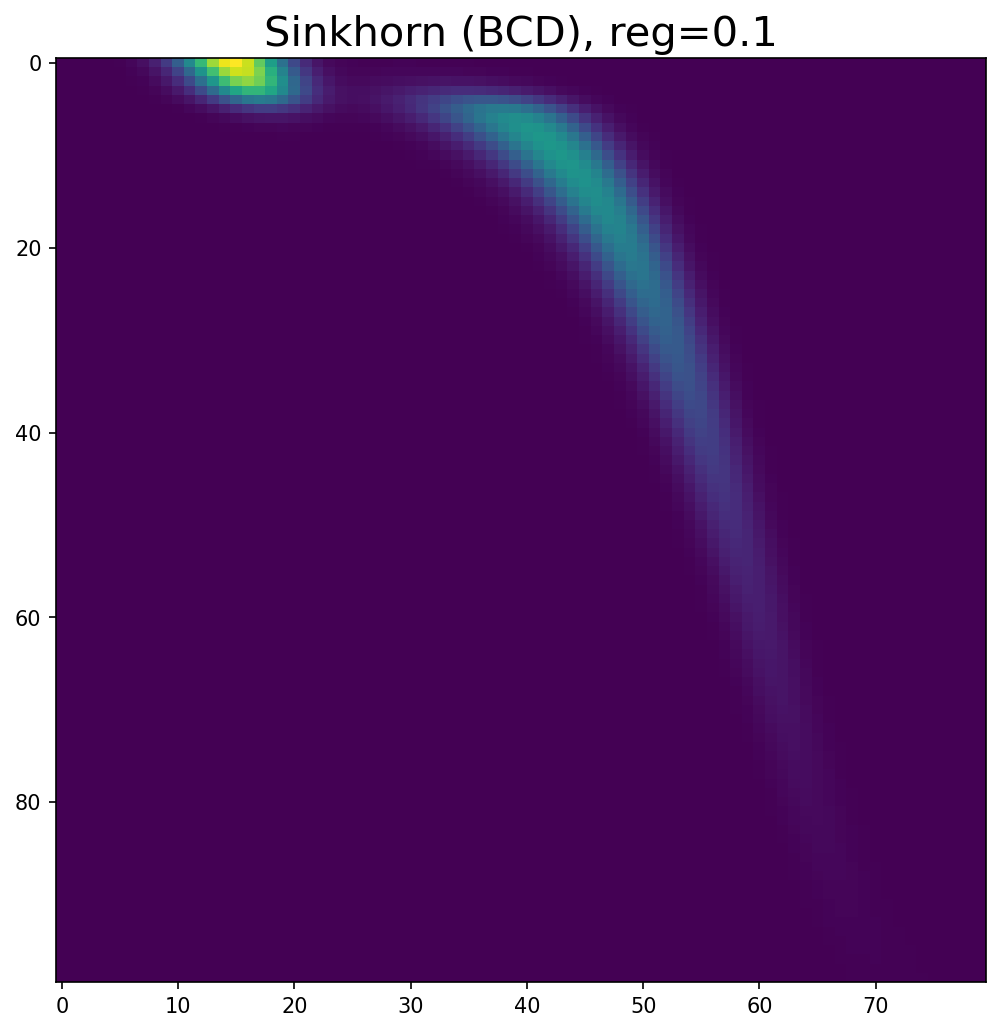
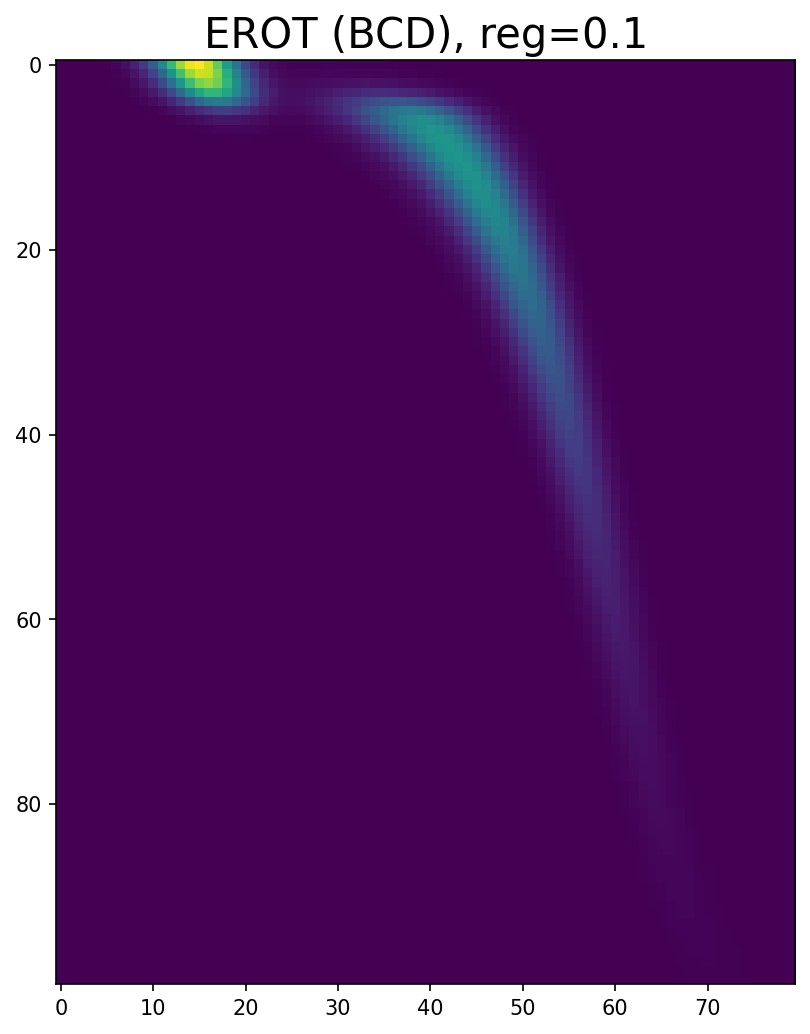
refine examples

diff --git a/figs/generate_readme_images.py b/figs/generate_readme_images.py
@@ -1,0 +1,58 @@
+#!/usr/bin/env python3
+"""
+Generate README transport plan images:
+    EROT: `plan_erot_bcd_reg0_1.png`, `plan_erot_ssns_reg0_01.png`
+    QROT: `plan_qrot_pdip_reg0_1.png`, `plan_qrot_pdip_reg0_01.png`
+
+Run code:
+    python generate_readme_plans.py
+"""
+from pathlib import Path
+from typing import Optional
+
+import matplotlib
+matplotlib.use("Agg")
+
+import numpy as np
+from scipy.stats import expon, norm
+import regot
+import matplotlib.pyplot as plt
+
+def example(n: int = 100, m: int = 80):
+    x1 = np.linspace(0.0, 5.0, num=n)
+    x2 = np.linspace(0.0, 5.0, num=m)
+    distr1 = expon(scale=1.0)
+    distr2 = norm(loc=1.0, scale=0.2)
+    distr3 = norm(loc=3.0, scale=0.5)
+    a = distr1.pdf(x1)
+    a = a / np.sum(a)
+    b = 0.2 * distr2.pdf(x2) + 0.8 * distr3.pdf(x2)
+    b = b / np.sum(b)
+    M = np.square(x1.reshape(n, 1) - x2.reshape(1, m))
+    return M, a, b
+
+def vis_plan(T, title: str = "", cmap: str = "viridis", filename: Optional[str] = None):
+    fig, ax = plt.subplots(figsize=(8, 8))
+    ax.imshow(T, cmap=cmap, interpolation="nearest")
+    ax.set_title(title, fontsize=20)
+    if filename is not None:
+        fig.savefig(filename, bbox_inches="tight", dpi=150)
+    plt.close(fig)
+
+def main():
+    np.random.seed(123)
+    M, a, b = example(n=100, m=80)
+
+    res1 = regot.sinkhorn_bcd(M, a, b, reg=0.1, tol=1e-6, max_iter=1000, verbose=0)
+    res2 = regot.sinkhorn_ssns(M, a, b, reg=0.01, tol=1e-6, max_iter=1000, verbose=0)
+
+    res3 = regot.qrot_pdip(M, a, b, reg=0.1, tol=1e-8, max_iter=1000, inner_solver="cg")
+    res4 = regot.qrot_pdip(M, a, b, reg=0.01, tol=1e-8, max_iter=1000, inner_solver="fp")
+
+    vis_plan(res1.plan, title="EROT (BCD), reg=0.1", filename="plan_erot_bcd_reg0_1.png")
+    vis_plan(res2.plan, title="EROT (SSNS), reg=0.01", filename="plan_erot_ssns_reg0_01.png")
+    vis_plan(res3.plan, title="QROT (PDIP-CG), reg=0.1", filename="plan_qrot_pdip_reg0_1.png")
+    vis_plan(res4.plan, title="QROT (PDIP-FP), reg=0.01", filename="plan_qrot_pdip_reg0_01.png")
+
+if __name__ == "__main__":
+    main()

diff --git a/README.md b/README.md
@@ -58,23 +58,21 @@ The following solvers are available for the QROT problem:
 - `qrot_assn`: the adaptive semi-smooth Newton (ASSN) method applied to the dual problem of QROT ([link to paper](https://arxiv.org/pdf/1603.07870)).
 - `qrot_grssn`: the globalized and regularized semi-smooth Newton (GRSSN) method applied to the dual problem of QROT ([link to paper](https://arxiv.org/pdf/1903.01112)).
 
-Primal-dual interior-point QROT solver (unified API):
+All the solvers above return an object containing fields:
 
-- **`qrot_pdip`**: primal-dual interior-point method. Pass **`inner_solver="cg"`** for a CG-based linear solve, or **`inner_solver="fp"`** for the fixed-point / sparse-Cholesky inner path. Default is **`inner_solver="cg"`** (case-insensitive).
-  - For **`cg`**: default `tol=1e-8` for normalized primal/dual gaps and `mu`. When `cg_stop_gap_mu_only` is false (default), marginal-error stopping uses **`cg_mar_tol` (default `1e-10`)**, independent of `tol`. Pass `cg_mar_tol` in kwargs to override. Set `cg_stop_gap_mu_only=True` to require **only** gaps + `mu` (like the FP path).
-  - For **`fp`**: default `tol=1e-8`. By default, stopping uses only normalized primal/dual gaps and `mu` (`fp_stop_gap_mu_only=True`). Pass `fp_stop_gap_mu_only=False` if you also want to stop when marginal error `mar_err` falls below `tol`.
-- **`pdip_cg`** / **`pdip_fp`**: legacy aliases for `qrot_pdip` with `inner_solver="cg"` or `"fp"` respectively.
+- `niter`: number of iterations used.
+- `dual`: final dual variables.
+- `plan`: computed transport plan.
+- `obj_vals`: history of dual objective function values.
+- `mar_errs`: history of marginal errors.
+- `run_times`: cumulative runtimes of iterations in milliseconds.
 
-**Developer / profiling builds.** Prebuilt wheels use the same numerics but **do not** compile in PDIP profiling hooks. When building from source, set **`REGOT_PDIP_DEV=1`** for the install step (e.g. `REGOT_PDIP_DEV=1 pip install -e .` on Unix; on Windows, set the variable in the environment before `pip install`). That enables optional runtime knobs: e.g. **`PDIP_CG_TIMING=1`** writes a phase breakdown to `pdip_cg_timing.txt`; with **`REGOT_PDIP_DEV`**, **`PDIP_SPARSITY_KEEP`** can tune the dynamic sparsity threshold in the CG preconditioner (see `src/pdip_dev_flags.h`). Without **`REGOT_PDIP_DEV`**, those environment variables are ignored—matching release behavior and avoiding accidental I/O.
+A specialized primal-dual interior-point solver is also available for the QROT problem:
 
-They return an object with fields:
-
-- `niter`: number of outer iterations.
-- `converged`: whether the stopping criterion is met.
-- `plan`: transport plan.
-- `obj_vals`: primal objective history.
-- `mar_errs`: marginal error history, defined as `max(||T1-a||_2, ||T^T1-b||_2)`.
-- `run_times`: cumulative runtime history in milliseconds.
+- `qrot_pdip`: the primal-dual interior-point method. Pass `inner_solver="cg"` for a CG-based inner solver, or `inner_solver="fp"` for the fixed-point method inner solver. Default is `inner_solver="cg"`.
+- `pdip_cg` / `pdip_fp`: aliases for `qrot_pdip` with `inner_solver="cg"` and `"fp"`, respectively.
+- For `cg`: default `tol=1e-8` for normalized primal/dual gaps and `mu`. When `cg_stop_gap_mu_only` is false (default), marginal-error stopping uses `cg_mar_tol` (default `1e-10`), independent of `tol`. Pass `cg_mar_tol` in kwargs to override. Set `cg_stop_gap_mu_only=True` to require only gaps + `mu` (like the FP solver).
+- For `fp`: default `tol=1e-8`. By default, stopping uses only normalized primal/dual gaps and `mu` (`fp_stop_gap_mu_only=True`). Pass `fp_stop_gap_mu_only=False` if you also want to stop when marginal error `mar_err` falls below `tol`.
 
 ## 💽 Installation
 
@@ -94,13 +92,13 @@ A C++ compiler is needed to build **RegOT** from source. Enter the source direct
 pip install . -r requirements.txt
 ```
 
-Eigen headers are downloaded automatically on first build (or use `EIGEN3_INCLUDE_DIR`). The folders `eigen-5.0.1/` and `data/` are local build or dataset caches and should not be committed.
+### Developer / Profiling builds
+
+An optional environment variable `REGOT_PDIP_DEV` can be set during installation (e.g., `REGOT_PDIP_DEV=1 pip install .`) to enable additional profiling functions. See `src/pdip_dev_flags.h` for details.
 
 ## 📗 Example
 
-The code below shows minimal examples computing **EROT** (Sinkhorn-type solvers)
-and **QROT** with the primal-dual interior-point solver **`qrot_pdip`**, given the same
-$a$, $b$, $M$ and regularization strengths.
+The code below shows minimal examples computing EROT and QROT transport plans given $a$, $b$, $M$, and $\eta$.
 
 ```py
 import numpy as np
@@ -130,6 +128,7 @@ np.random.seed(123)
 M, a, b = example(n=100, m=80)
 reg = 0.1
 
+# EROT transport plans
 # Algorithm: block coordinate descent (the Sinkhorn algorithm)
 res1 = regot.sinkhorn_bcd(
     M, a, b, reg, tol=1e-6, max_iter=1000, verbose=1)
@@ -139,51 +138,30 @@ reg = 0.01
 res2 = regot.sinkhorn_ssns(
     M, a, b, reg, tol=1e-6, max_iter=1000, verbose=0)
 
-# QROT: primal-dual interior-point (PDIP); `reg` is the QROT penalty γ (see formulation)
+# QROT transport plans
 res3 = regot.qrot_pdip(
-    M, a, b, 0.1, max_iter=2000, inner_solver="cg"
-)  # default tol=1e-8, gap+μ stop
-reg = 0.01
+    M, a, b, reg=0.1, tol=1e-8, max_iter=1000, inner_solver="cg")
 res4 = regot.qrot_pdip(
-    M, a, b, reg, max_iter=2000, inner_solver="fp"
-)
+    M, a, b, reg=0.01, tol=1e-8, max_iter=1000, inner_solver="fp")
 ```
 
-We can retrieve the computed transport plans and visualize them (heatmap of the plan matrix). Example outputs checked into `figs/`:
-
-- **EROT:** `plan_erot_bcd_reg0_1.png` (Sinkhorn BCD), `plan_erot_ssns_reg0_01.png` (SSNS)
-- **QROT PDIP:** `plan_pdip_reg0_1.png`, `plan_pdip_reg0_01.png`
-
-(Older `figs/plan_reg0_*.png` files are unchanged.)
-
-To **regenerate** these PNGs after editing the example, run from the repository root (requires a local build, e.g. `pip install -e .`):
-
-```bash
-python figs/generate_readme_plans.py
-```
+We can retrieve the computed transport plans and visualize them using heatmaps:
 
 ```py
-def vis_plan(T, title="", cmap="viridis", save_path=None):
-    fig, ax = plt.subplots(figsize=(8, 8))
-    ax.imshow(T, cmap=cmap, interpolation="nearest", aspect="auto")
-    ax.set_title(title, fontsize=20)
-    if save_path is not None:
-        fig.savefig(save_path, bbox_inches="tight", dpi=150)
+def vis_plan(T, title=""):
+    fig = plt.figure(figsize=(8, 8))
+    plt.imshow(T, interpolation="nearest")
+    plt.title(title, fontsize=20)
     plt.show()
 
-vis_plan(res1.plan, title="Sinkhorn (BCD), reg=0.1", save_path="figs/plan_erot_bcd_reg0_1.png")
-vis_plan(res2.plan, title="SSNS, reg=0.01", save_path="figs/plan_erot_ssns_reg0_01.png")
-vis_plan(res3.plan, title="reg=0.1", save_path="figs/plan_pdip_reg0_1.png")
-vis_plan(res4.plan, title="reg=0.01", save_path="figs/plan_pdip_reg0_01.png")
+vis_plan(res1.plan, title="EROT (BCD), reg=0.1")
+vis_plan(res2.plan, title="EROT (SSNS), reg=0.01")
+vis_plan(res3.plan, title="QROT (PDIP-CG), reg=0.1")
+vis_plan(res4.plan, title="QROT (PDIP-FP), reg=0.01")
 ```
 
-**EROT (entropic regularization)**
-
-<img src="figs/plan_erot_bcd_reg0_1.png" width="45%" alt="EROT Sinkhorn BCD transport plan, reg=0.1" /> <img src="figs/plan_erot_ssns_reg0_01.png" width="45%" alt="EROT SSNS transport plan, reg=0.01" />
-
-**QROT (PDIP)**
-
-<img src="figs/plan_pdip_reg0_1.png" width="45%" alt="QROT PDIP transport plan, reg=0.1" /> <img src="figs/plan_pdip_reg0_01.png" width="45%" alt="QROT PDIP transport plan, reg=0.01" />
+<img src="figs/plan_erot_bcd_reg0_1.png" width="45%" /> <img src="figs/plan_erot_ssns_reg0_01.png" width="45%" />
+<img src="figs/plan_qrot_pdip_reg0_1.png" width="45%" /> <img src="figs/plan_qrot_pdip_reg0_01.png" width="45%" />
 
 🌟 **Fun fact**: The logo sticker of **RegOT** also uses the package itself to compute the transport pattern between point clouds. You can use [this code](figs/sticker.py) to reproduce the image.
 
